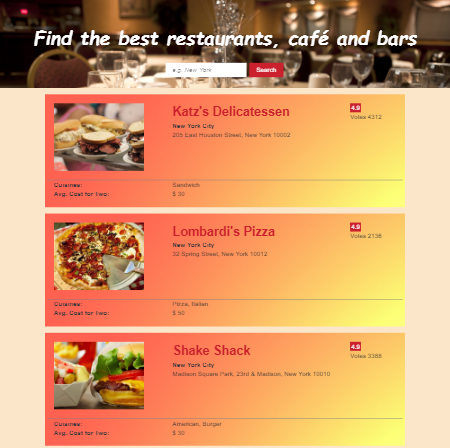
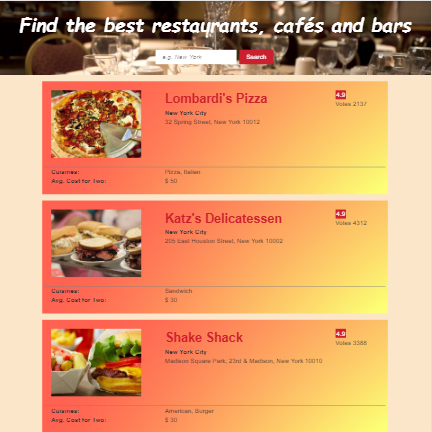
Fixed comments from Morgan

diff --git a/css/style.css b/css/style.css
@@ -20,28 +20,49 @@
     -webkit-padding-end: 0px;
 }
 
-
+/*.navbar-right 
+{
+    float: right !important;
+}*/
 /* General styles*/
 
+/*.navbar-collapse.collapse {
+  display: block!important;
+}
+
+.navbar-nav>li, .navbar-nav {
+  float: left !important;
+}*/
+
+/*.navbar-nav.navbar-right:last-child {
+  margin-right: -15px !important;
+}
+
+.navbar-right {
+  float: right!important;
+}*/
+
 body {
-    font-family: Libre Baskerville, serif;
+    font-family: Montserrat, cursive;
     font-size: 16px;
     color: #444;
 }
 
 .sectionTitle {
-    color: #1D2E26;
+    color: black;
     font-family: "Montserrat", cursive;
-    margin-bottom: 4rem;
+    margin-bottom: 8rem;
+    margin-top: 4rem;
+        font-weight: bold;
 }
 
 hr {
     border-color: #1D2E26;
     border-image: none;
     border-style: solid none none;
-    border-width: 3px 0 0;
+    border-width: 1px 0 0;
     margin: 0 auto;
-    width: 60%;
+    width: 90%;
     clear: both;
 }
 
@@ -92,30 +113,35 @@ hr {
 
 .hero .jumbotron .jumboName {
     margin-top: 4rem;
-    color: #1D2E26;
+    color: black;
+    font-weight: bolder;
     font-size: 4.5rem;
+    padding-top: 25px;
 }
 .marginminus8
 {
     margin-bottom: -60px;
 }
 .hero .jumbotron h4 {
-    color: #fff;
-    font-size: 3rem;
-    margin-top: 3rem;
+   color:#ff1c59;
+    font-size: 4rem;
+    font-weight: bolder;
+    
 }
 
 .hero .fa-chevron-down {
-    margin-top: 45.5rem;
+    margin-top: 47rem;
     font-size: 5rem;
     color: #1D2E26;
 }
 
-
+.pt{
+        padding-top: 18px;
+}
 /*Intro Styles*/
 
 .introduction {
-    margin-top: 11rem;
+    margin-top: 3rem;
     clear: both;
     height: 40rem;
     text-align: left;
@@ -123,9 +149,12 @@ hr {
 }
 
 .introduction img {
-    width: 90%;
+    width: 100%;
 }
-
+.container-fluid{
+    padding-left: 0px !important;
+    padding-right: 0px !important;
+}
 
 /*Portfolio Styles*/
 
@@ -162,7 +191,7 @@ hr {
 
 .portfolio .info {
     min-height: 36rem;
-    padding: 1rem;
+   /* padding: 1rem;*/
 }
 
 .info:hover {
@@ -185,10 +214,11 @@ hr {
 .name-left{
     padding-left:15px;
     padding-top:15px;
+        font-weight: bolder;
 }
 .screenshot1 {
-    max-height: 300px;
-    width: 300px;
+    max-height: 800px;
+    width: 1000px;
     padding-top: 3rem;
 }
 
@@ -371,13 +401,16 @@ footer a:hover {
             /*width: 5rem;*/
             /*margin-top: 2rem;*/
         /*}*/
+        .description{
+                min-height: 20rem !important;
+        }
         .screenshot1 {
-            max-height: 600px;
-            width: 600px;
-            padding-top: 3rem;
+            max-height: 500px;
+            width: 300px;
+            padding-top: 1rem;
         }
         .portfolio .box {
-            height: 80rem;
+            height: 35rem;
             /*padding-bottom: 4rem;*/
             /*padding-top: 5rem;*/
         }
@@ -394,11 +427,60 @@ footer a:hover {
             padding-top: 1rem;
         }
 
+
+.hero .fa-chevron-down {
+    margin-top: 35rem;
+    font-size: 5rem;
+    color: #1D2E26;
+}
         /*.portfolio .box .description {*/
             /*min-height: 18rem;*/
 
         /*}*/
     }
+
+    @media only screen and (min-width: 550px) {
+    
+    .screenshot1 {
+        max-height: 500px;
+        width: 500px;
+        padding-top: 3rem;
+    }
+.portfolio .box {
+            height: 45rem;
+            /*padding-bottom: 4rem;*/
+            /*padding-top: 5rem;*/
+        }
+   
+    h2 {
+        font-size: 30px;
+    }
+
+}
+
+
+    @media only screen and (min-width: 768px) {
+    .introduction img {
+        width: 70%;
+        padding-top: 0rem;
+    }
+    .screenshot1 {
+        max-height: 800px;
+        width: 700px;
+        padding-top: 3rem;
+    }
+
+    .portfolio .box {
+        height: 55rem;
+   /*     padding-bottom: 4rem;
+        padding-top: 1rem;*/
+    }
+
+    h2 {
+        font-size: 30px;
+    }
+
+}
 
 
 @media only screen and (min-width: 992px) {
@@ -407,19 +489,19 @@ footer a:hover {
         padding-top: 0rem;
     }
     .screenshot1 {
-        max-height: 400px;
-        width: 230px;
+        max-height: 800px;
+        width: 700px;
         padding-top: 3rem;
     }
 
     .portfolio .box {
-        height: 46rem;
-        padding-bottom: 4rem;
-        padding-top: 5rem;
+        height: 55rem;
+   /*     padding-bottom: 4rem;
+        padding-top: 1rem;*/
     }
     .portfolio .box  {
-        min-height: 10rem;
-        margin-top: -4rem;
+       /* min-height: 10rem;*/
+       /* margin-top: -4rem;*/
     }
     h2 {
         font-size: 20px;
@@ -431,9 +513,14 @@ footer a:hover {
     h2 {
         font-size: 30px;
     }
+      .portfolio .box {
+            height: 72rem;
+            /*padding-bottom: 4rem;*/
+            /*padding-top: 5rem;*/
+        }
     .screenshot1 {
-        max-height: 300px;
-        width: 300px;
+        max-height: 800px;
+        width: 1000px;
         padding-top: 3rem;
     }
 }

diff --git a/index.html b/index.html
@@ -12,7 +12,7 @@
 </head>
 
 <body>
-    <header>
+      <header>
         <nav class="navbar navbar-default navbar-fixed-top" role="navigation">
             <div class="container-fluid">
                 <div class="navbar-header">
@@ -62,7 +62,7 @@
         <div class="about bottomSpacer container-fluid text-center col-xs-10 col-xs-offset-1">
             <h2 class="text-uppercase sectionTitle">About Me</h2>
             <div class="row">
-                <div class="col-md-5"><img src="images/sgProfile.jpg" alt="Profile picture" /></div>
+                <div class="col-md-5 no-space"><img src="images/sgProfile.jpg" alt="Profile picture" /></div>
                 <div class="col-md-7">
                     <h3>I am a web developer and recent graduate of the Full Stack Web Development Career Path boot camp at <a href="http:www.thinkful.com " target="_blank">Thinkful</a>. I love coding because solving problems and seeing ideas come to life on the page is supremely satisfying. I geek out on higher order functions, finding and learning awesome libraries or frameworks, and getting front and back ends to play nicely.
                     I look to make difference by solving problems & applying technical skills.</h3>
@@ -78,31 +78,31 @@
         <div class=" bottomSpacer wow fadeInUp container-fluid col-xs-10 col-xs-offset-1 col-md-10 col-md-offset-1  ">
             <h2 class="text-uppercase sectionTitle">Selected Works</h2>
             <!--Restaurant Search-->
-            <div id=restaurantSearch class="box col-lg-4 col-md-4 col-xs-12 col-sm-12">
+            <div id=restaurantSearch class="box col-lg-12 col-md-12 col-xs-12 col-sm-12">
                 <div class="info">
                     <h2>Restaurant Searcher</h2>
                     <div class="description">
-                        <img class="screenshot1" src="images/restaurantSearcherfirstpage-2.png" alt="">
+                        <img class="screenshot1" src="images/restaurantSearcherfirstpage-3.png" alt="">
                         <!--<h4>Combines API data pulled from GoogleMaps and Zomato to give users ability to search restaurants near any location.</h4>-->
                         <!--<h4>Skills: HTML5, CSS3, Bootstrap, jQuery, AJAX</h4>-->
                     </div>
-                    <i class="fa fa-2x fa-chevron-down"></i>
+                    <i class="fa fa-2x fa-chevron-down pt"></i>
                 </div>
             </div>
             <!-- Contact App -->
-            <div id="contactApp" class="box col-lg-4 col-md-4 col-xs-12 col-sm-12">
+            <div id="contactApp" class="box col-lg-12 col-md-12 col-xs-12 col-sm-12">
                 <div class="info">
-                    <h2>My Contacts</h2>
+                    <h2 class="padding">My Contacts</h2>
                     <div class="description">
-                        <img class="screenshot1" src="images/contactapp-firstpage-2.jpg" alt="">
+                        <img class="screenshot1" src="images/contactapp-firstpage-1.png" alt="">
                         <!--<h4>It allows User to view, edit and delete contacts.</h4>-->
                         <!--<h4>Skills: HTML5, CSS3, jQuery, JS, NodeJS, MongoDB, Express</h4>-->
                     </div>
-                    <i class="fa fa-2x fa-chevron-down "></i>
+                    <i class="fa fa-2x fa-chevron-down pt"></i>
                 </div>
             </div>
             <!--Pictionary -->
-            <div id="nycBikeApp" class="box col-lg-4 col-md-4 col-xs-12 col-sm-12">
+            <div id="nycBikeApp" class="box col-lg-12 col-md-12 col-xs-12 col-sm-12">
                 <div class="info">
                     <h2>NYC Bike App</h2>
                     <div class="description">
@@ -111,7 +111,7 @@
                         <!--</h4>-->
                         <!--<h4>Skills: HTML5, CSS3, jQuery, JS, NodeJS, MongoDB, Express, React</h4>-->
                     </div>
-                    <i class="fa fa-2x fa-chevron-down"></i>
+                    <i class="fa fa-2x fa-chevron-down pt"></i>
                 </div>
             </div>
             <!--Note Keeper-->
